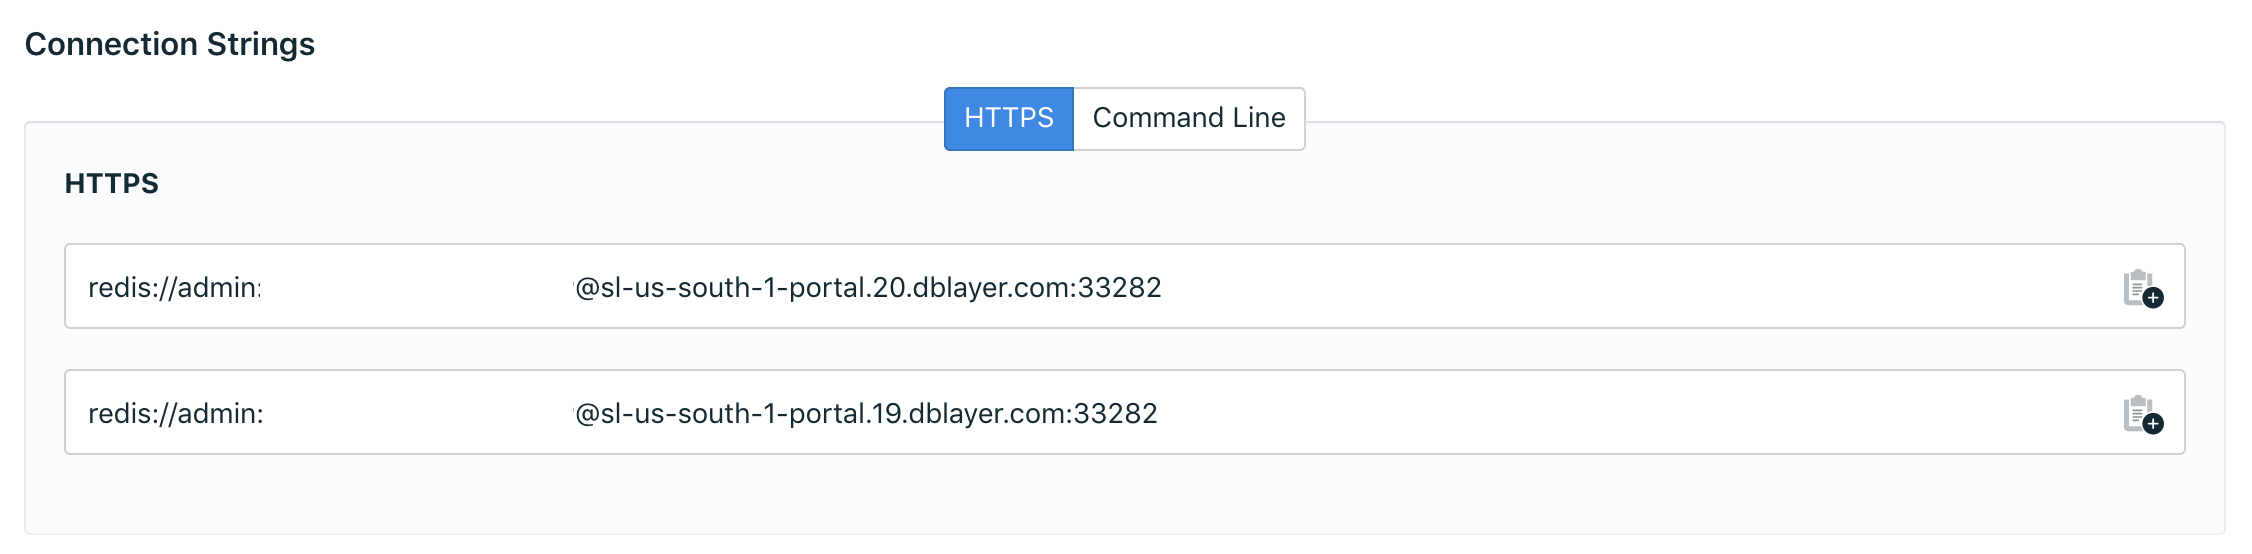
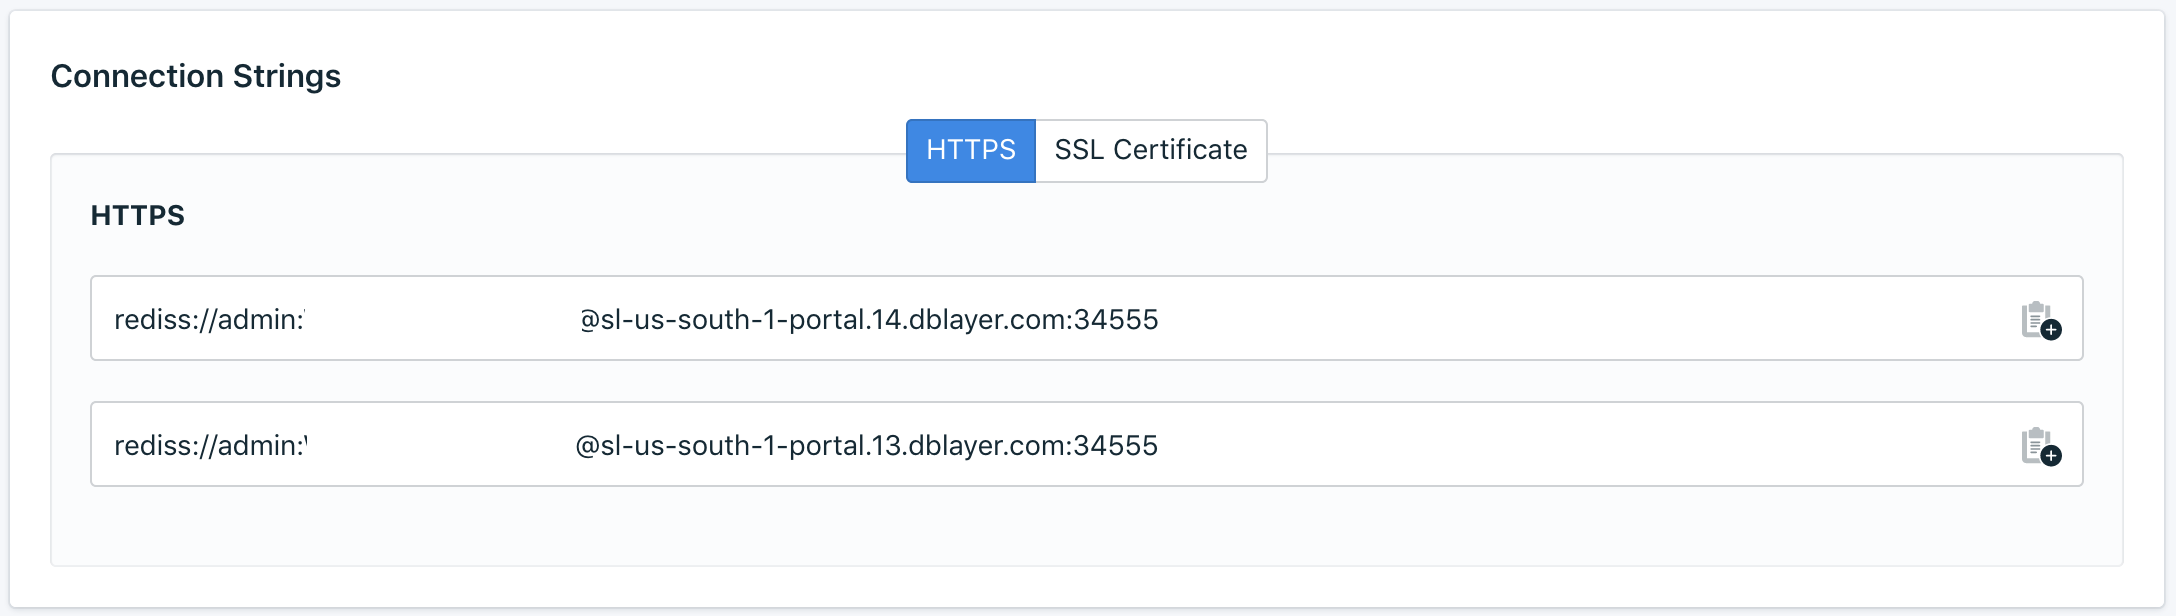
added TLS connection, changed screenshot, updated readme

diff --git a/server.js b/server.js
@@ -3,10 +3,14 @@ const app = express();
 const redis = require("redis");
 const url = require("url");
 const fetch = require("node-fetch");
+const fs = require('fs');
 require('dotenv').config();
+
+app.use(express.static(__dirname + "/public"));
 
 const apiKey = process.env.DATAGOV_API_KEY;
 const connectionString = process.env.COMPOSE_REDIS_URL;
+const caCert = fs.readFileSync('./caCert.crt');
 
 if (connectionString === undefined) {
   console.error("Please set the COMPOSE_REDIS_URL environment variable");
@@ -17,13 +21,11 @@ let client = null;
 
 if (connectionString.startsWith("rediss://")) {
   client = redis.createClient(connectionString, {
-    tls: { servername: new URL(connectionString).hostname }
+    tls: {  ca: caCert }
   });
 } else {
   client = redis.createClient(connectionString);
 }
-
-app.use(express.static(__dirname + "/public"));
 
 app.get('/api/colleges', (req, res) => {
   let query = req.query.college;

diff --git a/README.md b/README.md
@@ -14,7 +14,7 @@ A small application that demonstrates how to use IBM Compose for Redis as a cach
 
 Once you're in IBM Cloud, just click on **Create Resource** and look for Compose for Redis. Click on it to get into the service page, then click on **Create** to create the database.
 
-That will take you to your Compose for Redis management page. You'll see your Redis connection string URI within the _Connection Strings_ panel.
+That will take you to your Compose for Redis management page. You'll see your Redis connection string URI within the _Connection Strings_ panel. Also, click on the tab _SSL Certificate_ and store that certificate in a file called `caCert.crt`. We'll use that when making a TLS connection to Redis.
 
 ![ibm compose redis screenshot](/screenshots/redis.png)
 
@@ -34,7 +34,8 @@ Both of these variables are used inside the `server.js` file as:
 ```javascript
 const apiKey = process.env.DATAGOV_API_KEY;
 const connectionString = process.env.COMPOSE_REDIS_URL;
-```
+``
+
 
 Next, within `public/js/results.js`, substitute the Mapbox access token with your own:
 
